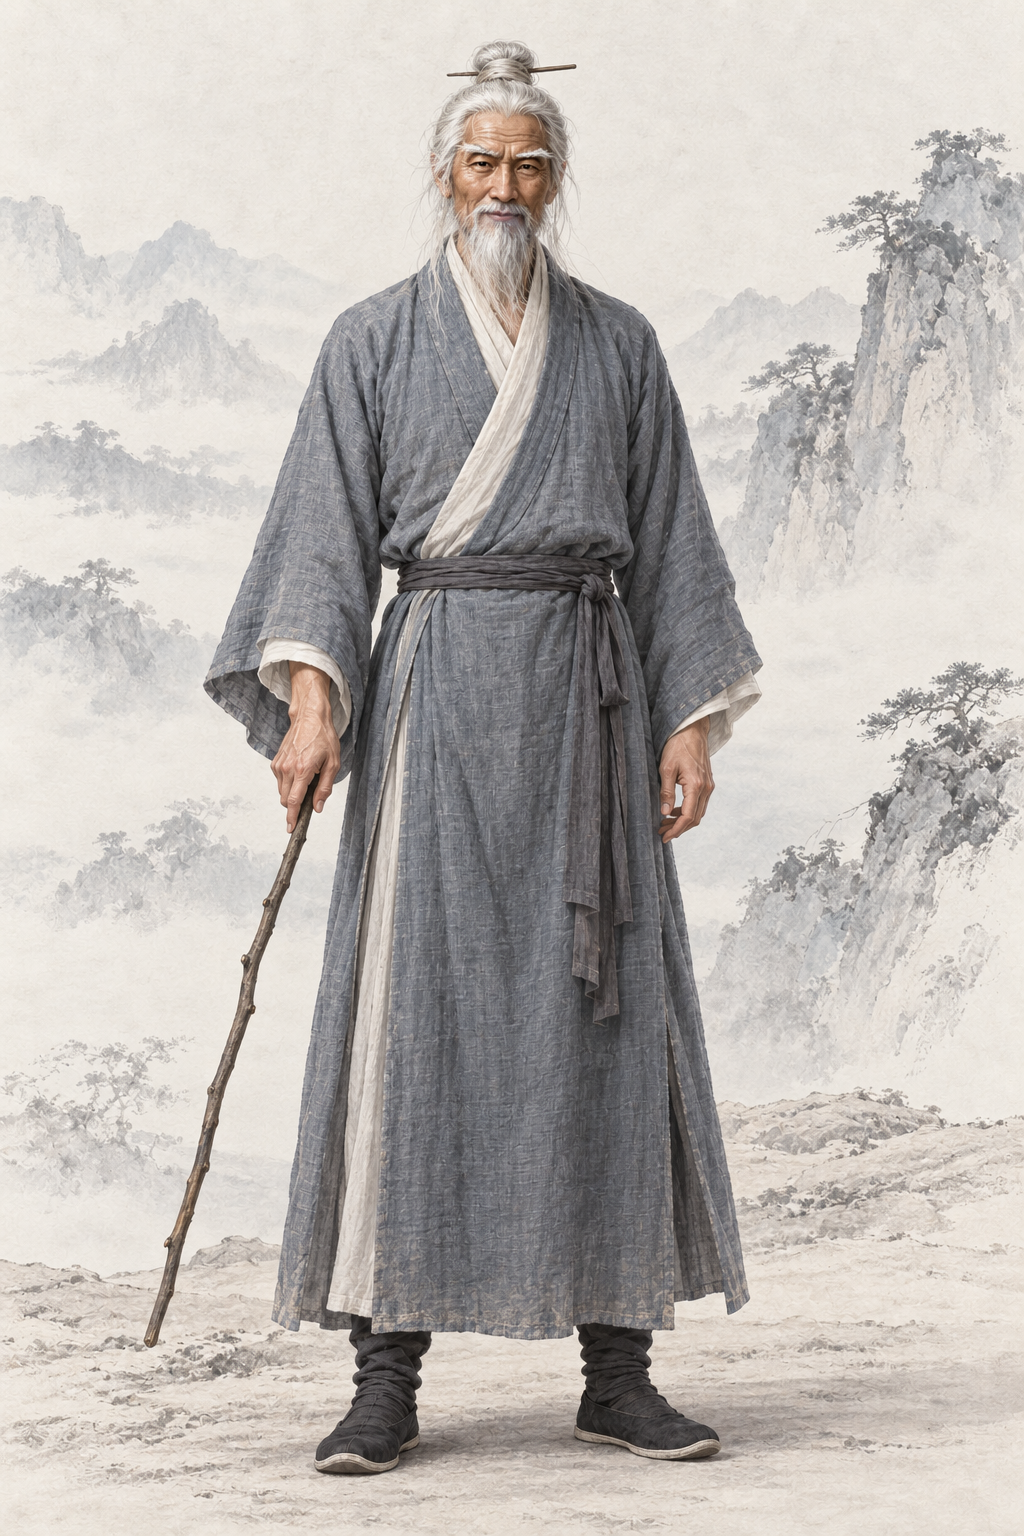
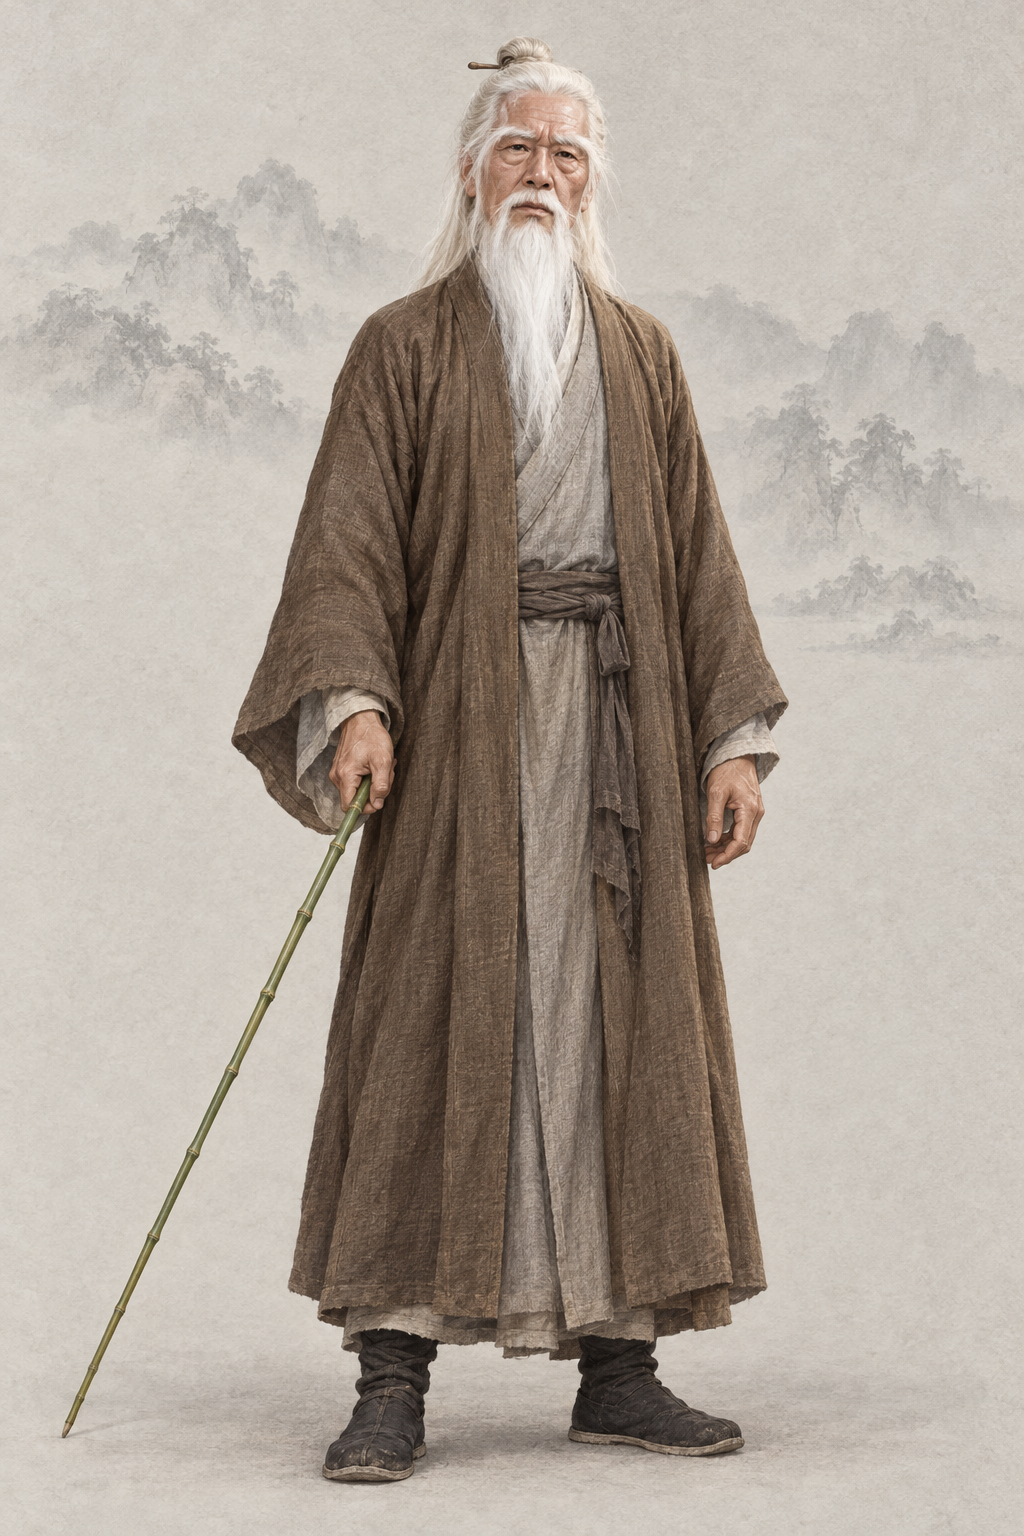
assets(character): por_npc_fengqingyang__ch05_elder_base 风清扬（codex · AR-32 1996 TVB《笑傲江湖》 剧照 + 基线）
参考 第 1–2 张为 1996 TVB《笑傲江湖》风清扬剧照（fengqingyang_1996_baofang_qq.jpg、sina.jpg，裁去台标字幕）与两张同性别基线重出；提示词写回、frontmatter 加 classic_ref。

diff --git a/assets/default/prompts/characters/ch05-xiaoao/npc_fengqingyang.md b/assets/default/prompts/characters/ch05-xiaoao/npc_fengqingyang.md
@@ -17,9 +17,54 @@ references:
   use: 第三仅用户指定浅水墨背景、暖浅灰纸底、远景留白；已在本会话实际view且SHA复核。忽略女性脸、身形、衣装、发饰与头部倾角；墨色不能侵蚀人物皮肤衣料或道具。
 status: ready
 realism_revision: user_identity_pose_20261001
+codex_prompt_rev: 2026-10-02
+reference_upload:
+- .agents/coord/imagegen-reference/identity-20261002/xiaoao/fengqingyang_1996_baofang_qq.jpg
+- .agents/coord/imagegen-reference/identity-20261002/xiaoao/fengqingyang_1996_baofang_sina.jpg
+- assets/default/baseline/character/male/ref_npc_linghuchong__ch05_base01.png
+- assets/default/baseline/character/male/ref_npc_xiaofeng__ch01_base01.png
+classic_ref:
+  version: 1996 TVB《笑傲江湖》
+  stills:
+  - .agents/coord/imagegen-reference/identity-20261002/xiaoao/fengqingyang_1996_baofang_qq.jpg
+  - .agents/coord/imagegen-reference/identity-20261002/xiaoao/fengqingyang_1996_baofang_sina.jpg
+  crop:
+    fengqingyang_1996_baofang_qq.jpg:
+    - 200
+    - 30
+    - 560
+    - 470
+    fengqingyang_1996_baofang_sina.jpg:
+    - 60
+    - 45
+    - 455
+    - 325
 ---
 
 # 风清扬 · 人物写实修正
+
+## Gemini 提示词
+
+> 2026-10-02 AR-32 重出（8 号出图员，codex exec · image_gen）：主要角色参考经典造型加项目基线生成。上传顺序：第 1–2 张为 1996 TVB《笑傲江湖》风清扬剧照（fengqingyang_1996_baofang_qq.jpg、sina.jpg，裁去台标字幕），最后两张为同性别画风基线（缩小版 JPEG）。参考图只借造型、气质与面部特征，画面按项目画风重绘、不复制照片或像素图。上一版保留在下一节作历史。
+
+```text
+生成一张 2:3 竖幅全身人物立绘：单人、单一视角、完整全身——头顶、双手、双脚和手中器物的两端都在画面内，四周留出自然空白；人物站姿自然，身体基本朝向正面，头部端正（不歪头、不仰不俯），镜头平视。
+【参考图】第 1–2 张参考图是该角色经典影视造型的剧照：借鉴其发型、服饰、配色、标志道具、气质和面部特征，让人一眼认出是这个角色；但必须重新绘制成项目画风，不要照片质感，不要照搬剧照的构图、光影、背景和姿势，也不要做成照片修图。最后两张是本项目画风基线：画风、用色、光线、质感和暖浅灰纸底加淡水墨背景以它们为准。
+【剧照借鉴要点】取剧照里披散的雪白长发、浓密的白眉和长长的白须、清癯苍老而目光炯炯的老人脸、褐色粗布长袍。姿势和构图按下文的全身立绘来画，不照搬剧照。
+【画风】写实手绘古风人物插画，与本项目写实武侠角色立绘同一画风，像功力深厚的画师用细腻笔触画出的真实人物。手绘插画质感，不是 CG 渲染：不要过度光滑的皮肤、完美对称的五官、塑料高光、过度锐利的发丝；保留自然的笔触和细微不完美。皮肤有真实质感——细小毛孔、细纹、晒痕和自然的左右不对称，不磨皮、不油亮；头发是一缕缕自然的发丝和少量碎发；布料看得出经纬纹理、厚薄和自然垂坠的褶皱，带穿用过的轻微旧化，但完整不破烂；整体设色低饱和、沉稳；柔和的自然光从左上方照来，明暗过渡自然，不打舞台光、轮廓光或美颜柔光。不是照片，不是三维渲染，不是动漫或游戏 CG，也不是油画（没有厚涂笔触和画布纹理）。
+【背景】不透明的暖浅灰色纸底，只在远处有极淡的水墨远山和薄雾，大面积留白；人物与背景明暗分明、轮廓边缘干净完整（后续要自动抠图），水墨和纸纹只在背景里，不侵入人物和衣服；脚下只有很淡的一点接触阴影。
+【人物】风清扬，《笑傲江湖》中华山派剑宗前辈、独孤九剑的传人；隐居华山思过崖后洞、指点令狐冲剑法的晚年。
+【年龄与体态】约八十岁的老人，身形清瘦高挑，背脊依然挺直，轻健而有真实的衰老，举止飘逸。
+【经典造型】九十年代经典港剧里的风清扬：雪白长发披散、白眉白须、一身褐色粗布长袍，手里拈着一根细竹枝当剑；神情萧索淡泊，目光却锐利如剑。
+【面容】按剧照：清癯的长脸、高颧骨、两颊微凹；雪白浓密的长眉垂到眼角；眼睛深陷、目光炯炯；鼻梁高挺；雪白的长须垂到胸前；满脸皱纹、带着老人斑，但神采奕奕。
+【发式】雪白长发大半披在肩后，头顶用一根木簪随意挽一个小髻。
+【服饰】褐色粗布交领长袍（右衽，左襟压右襟），内衬灰白中衣，腰系一根旧布带，脚穿旧布鞋；布料粗旧但完整。
+【道具】右手拈着一根细长的青竹枝（当作剑，枝上没有叶子），枝梢斜指地面；左手自然垂在身侧。
+【姿态与神情】淡然站立，神情萧索、超然物外。
+【不要】画面里不要任何文字、题款、印章、签名、水印、边框、分格或多视图；不要第二个人；不要幼态（童颜、娃娃脸、婴儿肥、儿童或少年身材、大头小身）；不要塑料感皮肤、磨皮美颜、网红脸（尖下巴大眼高鼻的模板脸）、过度对称、浓妆、偶像式打光、蜡像感；不要照片质感，不要像剧照照片、照片修图或拼贴，不要照搬剧照的背景、光影、构图和姿势；不要三维渲染或动漫大眼；不要歪头、斜镜头；不要多指、缺指（设定的伤残除外）、手与器物粘连或悬空；衣襟必须右衽（穿着者的左襟压在右襟上），不要左衽（设定为少数民族服制的除外），不要水平镜像；不要现代物品、发光特效、法阵或能量光。不要真剑或宝剑；不要白发飘飞的仙侠特效；不要华丽道袍；不要清代剃发留辫。
+【画风基线】随提示词上传的参考图里，最后两张是本项目的立绘画风基线：只参考它们的画风、用色、光线、质感和暖浅灰纸底加淡水墨的背景处理，整体画风必须与它们一致——精细写实的数字手绘插画，不是油画，不要厚涂笔触和画布纹理。基线图只取画风，不取长相：不要照搬基线图里人物的长相、年龄、发型、服饰和姿势。
+```
+
 
 ## 人物与阶段
 
